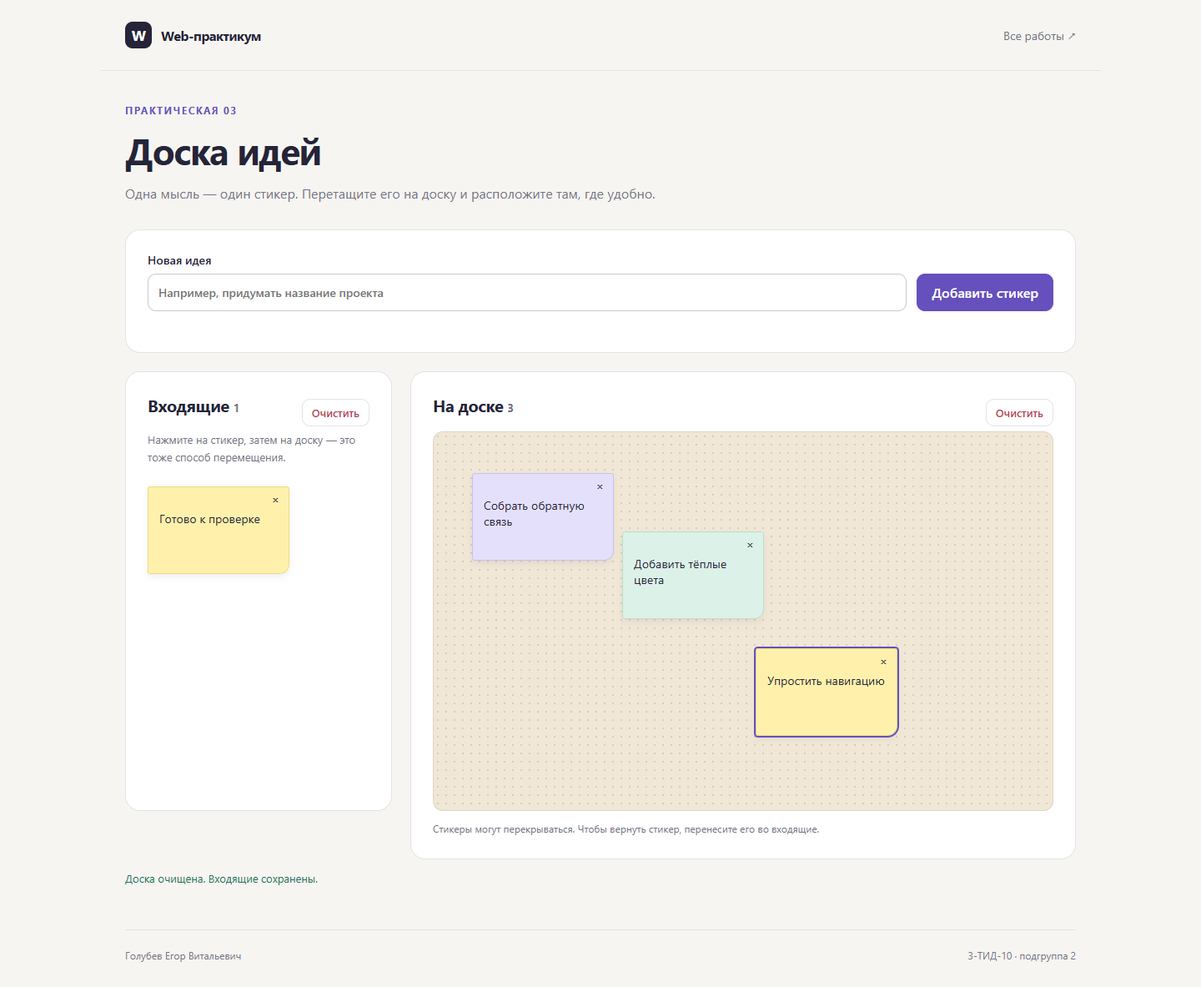
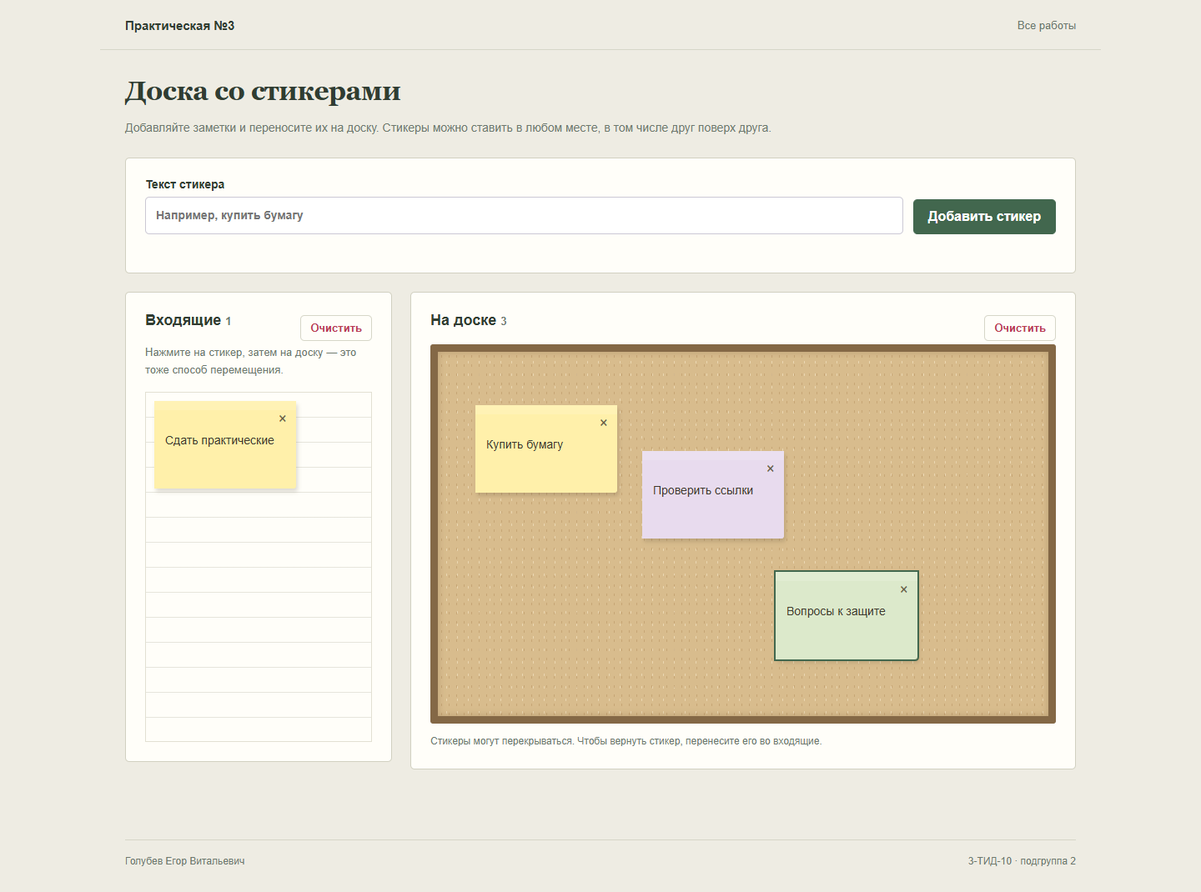
Поправил оформление практических

diff --git a/practice.css b/practice.css
@@ -1,0 +1,97 @@
+/* Оформление четырёх практических. У каждой своя тема, общая логика остаётся в app.js. */
+.practice{font-family:Arial,sans-serif;color:var(--ink);min-height:100vh}
+.practice .site-header{padding-top:22px;padding-bottom:20px}
+.practice .brand{font-size:15px;letter-spacing:0}
+.practice .back{font-size:13px}
+.practice main{padding-top:30px}
+.practice h1{font-size:32px;letter-spacing:-.6px;line-height:1.2}
+.practice h2{font-size:18px;letter-spacing:0}
+.practice .lead{font-size:14px;line-height:1.6;max-width:810px}
+.practice .page-heading{margin-bottom:24px}
+.practice .panel{border-radius:9px;padding:23px}
+.practice button,.practice input,.practice select,.practice textarea{border-radius:5px}
+.practice footer{padding-top:18px;font-size:12px}
+.practice .eyebrow{letter-spacing:1px}
+.practice :focus-visible{outline-color:var(--accent)}
+.practice .message{border-radius:0 5px 5px 0}
+/* Практическая 1 — поле с космическим маршрутом. */
+.pr1{--ink:#e4edf7;--muted:#a7b8cc;--bg:#101c2d;--paper:#16263a;--line:#334b65;--accent:#78b6dd;--soft:#223e58;background-color:var(--bg);background-image:radial-gradient(#afbedc66 .8px,transparent .8px),radial-gradient(#afbedc44 1px,transparent 1px);background-size:79px 83px,131px 139px;background-position:15px 0,60px 55px}
+.pr1 .site-header,.pr1 footer{border-color:#31445a}
+.pr1 .panel{background:#16263af5;border-color:#334b65}
+.pr1 button{background:#223b53;border-color:#42617e;color:#eaf2fb}
+.pr1 button.primary{background:#88bfdb;border-color:#88bfdb;color:#102638}
+.pr1 button.primary:hover{background:#acd7ee}
+.pr1 button:hover:not(:disabled){background:#304e69}
+.pr1 .token{background:#203a54;border-color:#4e6d88;color:#f5f7fc}
+.pr1 .token img{width:42px;height:42px;background:#07101b}
+.pr1 .token.selected{outline:2px solid #e7ca79}
+.pr1 .cell{background:#1b3048;border-color:#3c5671;border-radius:7px;min-height:134px}
+.pr1 .cell.special{background:#274463;border-color:#79a0c0}
+.pr1 .cell.goal{background:#254e44;border-color:#8bbd91}
+.pr1 .cell-number{color:#a8bed5}
+.pr1 .cell .token{background:#12283f}
+.pr1 .cell .token img{width:26px;height:26px}
+.pr1 .pill{background:#243f59;color:#c6e5f7;border-radius:5px}
+.pr1 .dice{background:#e6edf4;color:#20354b;border-radius:7px}
+.pr1 .game-grid{gap:10px;grid-template-columns:repeat(4,minmax(0,1fr))}
+.pr1 .cell strong{overflow-wrap:anywhere}
+.pr1 [data-cell="4"]{grid-row:2;grid-column:4}.pr1 [data-cell="5"]{grid-row:2;grid-column:3}.pr1 [data-cell="6"]{grid-row:2;grid-column:2}.pr1 [data-cell="7"]{grid-row:2;grid-column:1}
+.pr1 [data-cell="8"]{grid-row:3;grid-column:1}.pr1 [data-cell="9"]{grid-row:3;grid-column:2}.pr1 [data-cell="10"]{grid-row:3;grid-column:3}.pr1 [data-cell="11"]{grid-row:3;grid-column:4}
+.pr1 .cell-number:after{content:'→';float:right;font-size:16px;color:#7899b9}
+.pr1 [data-cell="3"] .cell-number:after,.pr1 [data-cell="7"] .cell-number:after{content:'↓'}
+.pr1 [data-cell="4"] .cell-number:after,.pr1 [data-cell="5"] .cell-number:after,.pr1 [data-cell="6"] .cell-number:after{content:'←'}
+.pr1 [data-cell="11"] .cell-number:after{content:'✓';color:#abdbb1}
+.pr1 .active-player{font-size:13px;color:#e7ca79;margin-top:14px;min-height:20px}
+.pr1 .game-controls{margin-top:12px}
+.pr1 #shelf:empty:before{content:'Все фишки на поле. Перетащите фишку сюда, чтобы вернуть её.';font-size:13px;line-height:1.6;color:#a7b8cc;padding-top:15px}
+.pr1 .message{background:#243d56;border-color:#8abbdc}
+/* Практическая 2 — компактная регистрационная форма. */
+.pr2{--ink:#302e2a;--muted:#756f64;--bg:#efebe2;--line:#d5cdbf;--accent:#845441;--soft:#f1e5db;background:#efebe2}
+.pr2 main{max-width:760px;padding-bottom:40px}
+.pr2 .page-heading{max-width:660px;margin:0 auto 23px}
+.pr2 h1{font-family:Georgia,serif;font-size:32px}
+.pr2 .layout.wide{display:block}
+.pr2 .panel{max-width:660px;margin:auto;background:#fffefa;border:1px solid #d0c7b8;box-shadow:0 4px 14px #4b3d2410;border-radius:5px}
+.pr2 .fields{gap:12px 18px}
+.pr2 input{background:white;border-color:#bfb8ab}
+.pr2 button.primary{background:#845441;border-color:#845441}
+.pr2 button.primary:hover{background:#6e4230}
+.pr2 .error{margin-top:4px;min-height:16px;font-size:12px}
+.pr2 input[aria-invalid=false]{border-color:#63836e}
+.pr2 input[aria-invalid=true]{border-color:#b45544}
+.pr2 #reset-registration{color:#756f64;border:0;padding-left:0;font-weight:400}
+.pr2 .form-footnote{font-size:12px;color:#756f64;margin:15px 0 0;padding-top:14px;border-top:1px solid #e6ded1}
+/* Практическая 3 — бумажные заметки на доске. */
+.pr3{--ink:#303d32;--muted:#6d786e;--bg:#eeece3;--line:#d6d6c8;--accent:#42674e;--soft:#e2eadf;background:#eeece3}
+.pr3 h1{font-family:Georgia,serif}
+.pr3 button.primary{background:#42674e;border-color:#42674e}
+.pr3 button.primary:hover{background:#304f39}
+.pr3 .panel{border-color:#d1d0c1;background:#fffef9;border-radius:5px}
+.pr3 .pinboard{background-color:#d8bc8d;background-image:radial-gradient(#a47a4555 1px,transparent 1px),radial-gradient(#fff5dc77 1px,transparent 1px);background-position:0 0,4px 5px;background-size:9px 11px,13px 15px;border:9px solid #846846;border-radius:3px;box-shadow:inset 0 0 9px #61492944}
+.pr3 .pinboard-caption{color:#775c3c;line-height:1.6}
+.pr3 .sticker-tray{background:repeating-linear-gradient(transparent 0,transparent 29px,#e6e5dc 29px,#e6e5dc 30px);padding:10px;min-height:420px;border:1px solid #e2e0d3}
+.pr3 .sticker-tray:empty:before{content:'Новые стикеры появятся здесь';font-size:13px;line-height:1.6;color:#7a8076;padding:10px}
+.pr3 .sticker{border-radius:0 0 3px 0;flex-shrink:0;box-shadow:2px 4px 5px #4a3b262e;border:0;border-top:11px solid #ffffff22;color:#3c382b}
+.pr3 .sticker button{color:#685d48;font-size:18px;line-height:1.2;padding:0 6px;top:0}
+.pr3 .pinboard .sticker{max-height:330px}
+/* Практическая 4 — пять вариантов оформления самой открытки. */
+.pr4{--ink:#3e3940;--muted:#837983;--bg:#f4efeb;--line:#ded3cd;--accent:#9c5a5b;--soft:#f2e1df;background:#f4efeb}
+.pr4 h1{font-family:Georgia,serif}
+.pr4 button.primary{background:#9c5a5b;border-color:#9c5a5b}
+.pr4 button.primary:hover{background:#854749}
+.pr4 .panel{background:#fffcf9;border-color:#dfd4ce;border-radius:5px}
+.pr4 .postcard{min-height:270px;border-radius:2px;box-shadow:2px 4px 8px #47392c1f;padding:42px 30px 30px;font-family:Georgia,serif;border:1px solid #d7cdbf}
+.pr4 .postcard p{font-size:25px;line-height:1.45;min-height:60px;margin:20px 0;z-index:1}
+.pr4 .postcard small{font-family:Arial,sans-serif;z-index:1}
+.pr4 .postcard:after{content:'';position:absolute;right:17px;top:16px;width:32px;height:39px;border:2px dotted currentColor;opacity:.35;transform:rotate(8deg);pointer-events:none}
+.pr4 .theme-linen{background:#fffcf3;color:#574735;background-image:repeating-linear-gradient(0deg,#a2947510 0,#a2947510 1px,transparent 1px,transparent 4px)}
+.pr4 .theme-night{background:#263345;color:#eef0e4;border-color:#687789;background-image:radial-gradient(#fff5caaa 1px,transparent 1.5px);background-size:63px 59px}
+.pr4 .theme-sunset{background:#f6dbcf;color:#7e4c44;border:7px double #d0a397}
+.pr4 .theme-garden{background:#e7ebdc;color:#3e5a42;border-color:#a9b79c;border-left:12px solid #8eaa83}
+.pr4 .theme-garden:before{border:12px double #91a08055;width:150px;height:150px;right:-60px;bottom:-60px}
+.pr4 .theme-winter{background:#e7f1f5;color:#385c6d;border-color:#adc4d0}
+.pr4 .theme-winter:before{content:'✧  ·  ✧';font-family:Georgia,serif;color:#78a1b7;font-size:32px;right:75px;top:14px}
+.pr4 .history-item .postcard{padding-bottom:48px;min-height:250px}
+.pr4 .history-item>button{border-radius:3px;background:#fffaf4cc}
+@media(max-width:850px){.pr1 .token-shelf{min-height:80px}.pr1 .game-controls{grid-template-columns:minmax(0,1fr);align-items:center}.pr3 .sticker-tray{min-height:160px}.pr4 .layout.wide{grid-template-columns:1fr}}
+@media(max-width:540px){.practice h1{font-size:27px}.practice .site-header{padding-top:18px;padding-bottom:16px}.practice main{padding-top:24px}.practice .panel{padding:17px}.pr1 .cell{padding:9px 5px;min-height:128px}.pr1 .cell strong{font-size:10px}.pr1 .game-grid{gap:6px}.pr2 .row{align-items:stretch}.pr2 .row>button{flex:1;font-size:13px}.pr3 .sticker-tray{padding:9px;min-height:155px;gap:9px}.pr3 .pinboard{border-width:6px}.pr3 .sticker{width:160px}.pr4 .postcard{padding:39px 21px 24px}.pr4 .postcard p{font-size:23px}}

diff --git a/pr2/validation.html b/pr2/validation.html
@@ -1,8 +1,8 @@
 <!DOCTYPE html>
 <html lang="ru"><head><meta charset="utf-8"><meta name="viewport" content="width=device-width, initial-scale=1">
-<meta name="description" content="Добро пожаловать в клуб — учебная работа по Web-программированию">
-<title>Добро пожаловать в клуб · Web-практикум</title><link rel="icon" href="../assets/favicon.svg"><link rel="stylesheet" href="../shared.css"></head>
-<body><header class="site-header"><a class="brand" href="../index.html"><span class="brand-icon">W</span> Web-практикум</a><a class="back" href="../index.html">Все работы ↗</a></header>
-<main><div class="page-heading"><p class="eyebrow">Практическая 02</p><h1>Добро пожаловать в клуб</h1><p class="lead">Регистрация в клубе настольных игр для участников от 18 лет. Подсказки помогут заполнить каждое поле.</p></div>
-<div class="layout wide"><section class="panel"><h2>Создать профиль</h2><form id="registration" novalidate><div class="fields"><label class="full">Фамилия, имя, отчество<input id="fullName" type="text" autocomplete="name" aria-describedby="fullName-help fullName-error"><small id="fullName-help">Латиница или кириллица, допускаются только буквы и пробелы.</small><div id="fullName-error" class="error" aria-live="polite"></div></label><label class="full">Логин<input id="login" type="text" autocomplete="username" aria-describedby="login-help login-error"><small id="login-help">От 15 символов: строчные и заглавные латинские буквы, минимум 3 цифры и 1 спецсимвол. Без пробелов.</small><div id="login-error" class="error" aria-live="polite"></div></label><label>Email<input id="email" type="text" inputmode="email" autocomplete="email" aria-describedby="email-error"><div id="email-error" class="error" aria-live="polite"></div></label><label>Возраст<input id="age" type="text" inputmode="numeric" autocomplete="off" aria-describedby="age-help age-error"><small id="age-help">От 18 до 120 лет.</small><div id="age-error" class="error" aria-live="polite"></div></label><label class="full">Пароль<input id="password" type="password" autocomplete="new-password" aria-describedby="password-help password-error"><small id="password-help">От 15 символов: строчные и заглавные кириллические буквы, минимум 3 цифры и 1 спецсимвол. Без латиницы и пробелов.</small><div id="password-error" class="error" aria-live="polite"></div></label></div><div class="row"><button type="submit" class="primary">Проверить регистрацию</button><button type="button" id="show-password" aria-pressed="false">Показать пароль</button></div><div id="result" class="status-line" role="status"></div></form></section><aside class="panel"><p class="eyebrow">Правила клуба</p><h2>Хорошая игра начинается<br>со знакомства</h2><p class="muted">Заполните форму — ошибки появятся рядом с полями, а верные значения останутся на месте.</p><p class="detail-text">Это учебная форма проверки. Она не создаёт аккаунт и не передаёт данные на сервер. Пароль не сохраняется.</p></aside></div></main>
+<meta name="description" content="Регистрация в клубе — учебная работа по Web-программированию">
+<title>Регистрация в клубе · Практическая 2</title><link rel="icon" href="../assets/favicon.svg"><link rel="stylesheet" href="../shared.css"><link rel="stylesheet" href="../practice.css"></head>
+<body class="practice pr2"><header class="site-header"><a class="brand" href="../index.html">Практическая №2</a><a class="back" href="../index.html">Все работы</a></header>
+<main><div class="page-heading"><h1>Регистрация в клубе</h1><p class="lead">Клуб настольных игр. Участие для игроков от 18 лет.</p></div>
+<div class="layout wide"><section class="panel"><h2>Данные участника</h2><form id="registration" novalidate><div class="fields"><label class="full">Фамилия, имя, отчество<input id="fullName" type="text" autocomplete="name" aria-describedby="fullName-help fullName-error"><small id="fullName-help">Латиница или кириллица, допускаются только буквы и пробелы.</small><div id="fullName-error" class="error" aria-live="polite"></div></label><label class="full">Логин<input id="login" type="text" autocomplete="username" aria-describedby="login-help login-error"><small id="login-help">От 15 символов: строчные и заглавные латинские буквы, минимум 3 цифры и 1 спецсимвол. Без пробелов.</small><div id="login-error" class="error" aria-live="polite"></div></label><label>Email<input id="email" type="text" inputmode="email" autocomplete="email" aria-describedby="email-error"><div id="email-error" class="error" aria-live="polite"></div></label><label>Возраст<input id="age" type="text" inputmode="numeric" autocomplete="off" aria-describedby="age-help age-error"><small id="age-help">От 18 до 120 лет.</small><div id="age-error" class="error" aria-live="polite"></div></label><label class="full">Пароль<input id="password" type="password" autocomplete="new-password" aria-describedby="password-help password-error"><small id="password-help">От 15 символов: строчные и заглавные кириллические буквы, минимум 3 цифры и 1 спецсимвол. Без латиницы и пробелов.</small><div id="password-error" class="error" aria-live="polite"></div></label></div><div class="row"><button type="submit" class="primary">Зарегистрироваться</button><button type="button" id="show-password" aria-pressed="false">Показать пароль</button></div><div id="result" class="status-line" role="status"></div><button id="reset-registration" class="quiet small" type="button">Очистить форму</button><p class="form-footnote">Учебная форма. Введённые данные и пароль не сохраняются.</p></form></section></div></main>
 <footer>Голубев Егор Витальевич <span>3-ТИД-10 · подгруппа 2</span></footer><script src="app.js"></script></body></html>

diff --git a/pr4/index.html b/pr4/index.html
@@ -1,8 +1,8 @@
 <!DOCTYPE html>
 <html lang="ru"><head><meta charset="utf-8"><meta name="viewport" content="width=device-width, initial-scale=1">
-<meta name="description" content="Тёплые слова — учебная работа по Web-программированию">
-<title>Тёплые слова · Web-практикум</title><link rel="icon" href="../assets/favicon.svg"><link rel="stylesheet" href="../shared.css"></head>
-<body><header class="site-header"><a class="brand" href="../index.html"><span class="brand-icon">W</span> Web-практикум</a><a class="back" href="../index.html">Все работы ↗</a></header>
-<main><div class="page-heading"><p class="eyebrow">Практическая 04</p><h1>Тёплые слова</h1><p class="lead">Выберите настроение, напишите несколько строк — и сохраните открытку в своей коллекции.</p></div>
-<div class="layout wide"><section class="panel"><h2>Новое послание</h2><form id="card-form" novalidate class="stack"><label>Текст открытки<textarea id="card-text" placeholder="Пусть сегодня случится что-нибудь хорошее" rows="3"></textarea></label><div class="fields"><label>От кого<input id="card-from" type="text" placeholder="Ваше имя"></label><label>Кому<input id="card-to" type="text" placeholder="Имя получателя"></label></div><label>Тема открытки<select id="card-theme"><option value="linen">Бумага и чернила</option><option value="night">Звёздная ночь</option><option value="sunset">Тёплый закат</option><option value="garden">Летний сад</option><option value="winter">Зимнее утро</option></select></label><button id="send" class="primary" type="submit" disabled>Отправить в коллекцию</button><div id="card-status" class="status-line" role="status"></div></form></section><section class="panel"><h2 class="preview-title">Предпросмотр</h2><div id="preview" class="postcard theme-linen"><small id="preview-to">Для вас</small><p id="preview-text">Пара тёплых слов<br>сделает день лучше.</p><small id="preview-from">С добрыми пожеланиями</small></div><p class="board-note">Тема меняет оформление открытки. Страница остаётся прежней.</p></section></div><section style="margin-top:34px"><div class="between"><h2>Ваша коллекция <span id="history-count" class="count">0</span></h2><button id="clear-history" class="quiet small danger">Удалить все</button></div><p class="hint">Открытки сохраняются в этом браузере и остаются после обновления страницы.</p><div id="history" class="postcard-history"></div><div id="history-empty" class="empty">Первая открытка появится здесь после отправки.</div></section></main>
+<meta name="description" content="Открытки — учебная работа по Web-программированию">
+<title>Открытки · Практическая 4</title><link rel="icon" href="../assets/favicon.svg"><link rel="stylesheet" href="../shared.css"><link rel="stylesheet" href="../practice.css"></head>
+<body class="practice pr4"><header class="site-header"><a class="brand" href="../index.html">Практическая №4</a><a class="back" href="../index.html">Все работы</a></header>
+<main><div class="page-heading"><h1>Открытки</h1><p class="lead">Напишите поздравление, укажите отправителя и получателя. Выберите оформление и добавьте открытку в историю.</p></div>
+<div class="layout wide"><section class="panel"><h2>Новая открытка</h2><form id="card-form" novalidate class="stack"><label>Текст открытки<textarea id="card-text" placeholder="Ваше поздравление" rows="3"></textarea></label><div class="fields"><label>От кого<input id="card-from" type="text" placeholder="Ваше имя"></label><label>Кому<input id="card-to" type="text" placeholder="Имя получателя"></label></div><label>Тема открытки<select id="card-theme"><option value="linen">Бумажная</option><option value="night">Звёздная ночь</option><option value="sunset">Персиковая</option><option value="garden">Ботаническая</option><option value="winter">Зимнее утро</option></select></label><button id="send" class="primary" type="submit" disabled>Отправить</button><div id="card-status" class="status-line" role="status"></div></form></section><section class="panel"><h2 class="preview-title">Предпросмотр</h2><div id="preview" class="postcard theme-linen"><small id="preview-to">Для вас</small><p id="preview-text">Текст поздравления</p><small id="preview-from">Отправитель</small></div><p class="board-note">Выбранное оформление сохранится вместе с открыткой.</p></section></div><section style="margin-top:34px"><div class="between"><h2>История открыток <span id="history-count" class="count">0</span></h2><button id="clear-history" class="quiet small danger">Очистить историю</button></div><p class="hint">Открытки сохраняются в этом браузере и остаются после обновления страницы.</p><div id="history" class="postcard-history"></div><div id="history-empty" class="empty">Первая открытка появится здесь после отправки.</div></section></main>
 <footer>Голубев Егор Витальевич <span>3-ТИД-10 · подгруппа 2</span></footer><script src="app.js"></script></body></html>

diff --git a/index.html b/index.html
@@ -1,1 +1,1 @@
-<!DOCTYPE html><html lang="ru"><head><meta charset="utf-8"><meta name="viewport" content="width=device-width, initial-scale=1"><title>Web-практикум · Голубев Егор</title><link rel="icon" href="assets/favicon.svg"><link rel="stylesheet" href="shared.css"></head><body><header class="site-header"><a class="brand" href="index.html"><span class="brand-icon">W</span> Web-практикум</a><span class="count">5 семестр / 2026</span></header><main><div class="page-heading"><p class="eyebrow">Голубев Егор Витальевич · 3-ТИД-10</p><h1>От первого события<br>до своего приложения</h1><p class="lead">Четыре практические работы и индивидуальный проект по фронтенду. Откройте любую работу, чтобы проверить её в браузере.</p></div><div class="cards"><a class="work-card" href="pr1/index.html"><p class="eyebrow">Практическая 01</p><h2>Космический маршрут</h2><p>Настольная игра с перетаскиванием фишек, особыми клетками и броском кубика.</p><span class="card-link">Начать путешествие ↗</span></a><a class="work-card" href="pr2/validation.html"><p class="eyebrow">Практическая 02</p><h2>Форма регистрации</h2><p>Проверка ФИО, логина, почты, возраста и пароля с помощью регулярных выражений.</p><span class="card-link">Открыть форму ↗</span></a><a class="work-card" href="pr3/index.html"><p class="eyebrow">Практическая 03</p><h2>Доска идей</h2><p>Создавайте стикеры, размещайте их в любой точке доски и убирайте лишнее.</p><span class="card-link">Собрать идеи ↗</span></a><a class="work-card" href="pr4/index.html"><p class="eyebrow">Практическая 04</p><h2>Тёплые слова</h2><p>Конструктор открыток с пятью темами и историей, которая сохраняется в браузере.</p><span class="card-link">Создать открытку ↗</span></a><a class="work-card featured" href="final/index.html"><p class="eyebrow">Индивидуальный проект · Вариант 03</p><h2>Между строк</h2><p>Трекер чтения книг: своя полка, заметки, цитаты и прогресс прочитанных страниц.</p><span class="card-link">Открыть приложение ↗</span></a></div></main><footer>Голубев Егор Витальевич<span>Web-программирование · подгруппа 2</span></footer></body></html>
+<!DOCTYPE html><html lang="ru"><head><meta charset="utf-8"><meta name="viewport" content="width=device-width, initial-scale=1"><title>Web-практикум · Голубев Егор</title><link rel="icon" href="assets/favicon.svg"><link rel="stylesheet" href="shared.css"></head><body><header class="site-header"><a class="brand" href="index.html"><span class="brand-icon">W</span> Web-практикум</a><span class="count">5 семестр / 2026</span></header><main><div class="page-heading"><p class="eyebrow">Голубев Егор Витальевич · 3-ТИД-10</p><h1>Практические работы</h1><p class="lead">Работы по Web-программированию. Голубев Егор Витальевич, группа 3-ТИД-10.</p></div><div class="cards"><a class="work-card" href="pr1/index.html"><p class="eyebrow">Практическая 01</p><h2>Космическая бродилка</h2><p>Настольная игра с перетаскиванием фишек, особыми клетками и броском кубика.</p><span class="card-link">Открыть работу →</span></a><a class="work-card" href="pr2/validation.html"><p class="eyebrow">Практическая 02</p><h2>Форма регистрации</h2><p>Проверка ФИО, логина, почты, возраста и пароля с помощью регулярных выражений.</p><span class="card-link">Открыть работу →</span></a><a class="work-card" href="pr3/index.html"><p class="eyebrow">Практическая 03</p><h2>Доска со стикерами</h2><p>Создавайте стикеры, размещайте их в любой точке доски и убирайте лишнее.</p><span class="card-link">Открыть работу →</span></a><a class="work-card" href="pr4/index.html"><p class="eyebrow">Практическая 04</p><h2>Открытки</h2><p>Конструктор открыток с пятью темами и историей, которая сохраняется в браузере.</p><span class="card-link">Открыть работу →</span></a><a class="work-card featured" href="final/index.html"><p class="eyebrow">Индивидуальный проект · Вариант 03</p><h2>Между строк</h2><p>Трекер чтения книг: своя полка, заметки, цитаты и прогресс прочитанных страниц.</p><span class="card-link">Открыть приложение ↗</span></a></div></main><footer>Голубев Егор Витальевич<span>Web-программирование · подгруппа 2</span></footer></body></html>

diff --git a/pr3/index.html b/pr3/index.html
@@ -1,8 +1,8 @@
 <!DOCTYPE html>
 <html lang="ru"><head><meta charset="utf-8"><meta name="viewport" content="width=device-width, initial-scale=1">
-<meta name="description" content="Доска идей — учебная работа по Web-программированию">
-<title>Доска идей · Web-практикум</title><link rel="icon" href="../assets/favicon.svg"><link rel="stylesheet" href="../shared.css"></head>
-<body><header class="site-header"><a class="brand" href="../index.html"><span class="brand-icon">W</span> Web-практикум</a><a class="back" href="../index.html">Все работы ↗</a></header>
-<main><div class="page-heading"><p class="eyebrow">Практическая 03</p><h1>Доска идей</h1><p class="lead">Одна мысль — один стикер. Перетащите его на доску и расположите там, где удобно.</p></div>
-<section class="panel" style="margin-bottom:22px"><form id="sticker-form" class="row" novalidate><label style="flex:1">Новая идея<input id="sticker-text" type="text" placeholder="Например, придумать название проекта" aria-describedby="input-error"></label><button class="primary" type="submit" style="align-self:end">Добавить стикер</button></form><div id="input-error" class="error" role="status"></div></section><div class="layout"><section class="panel"><div class="between"><h2>Входящие <span id="tray-count" class="count">0</span></h2><button id="clear-tray" class="quiet small danger">Очистить</button></div><p class="hint">Нажмите на стикер, затем на доску — это тоже способ перемещения.</p><div id="tray" class="sticker-tray" aria-label="Поле со стикерами"></div></section><section class="panel"><div class="between"><h2>На доске <span id="board-count" class="count">0</span></h2><button id="clear-board" class="quiet small danger">Очистить</button></div><div id="pinboard" class="pinboard" aria-label="Доска со свободным расположением стикеров"><div id="board-placeholder" class="pinboard-caption">Здесь найдётся место<br>для каждой идеи</div></div><p class="board-note">Стикеры могут перекрываться. Чтобы вернуть стикер, перенесите его во входящие.</p></section></div><div id="notice" class="status-line" role="status"></div></main>
+<meta name="description" content="Доска со стикерами — учебная работа по Web-программированию">
+<title>Доска со стикерами · Практическая 3</title><link rel="icon" href="../assets/favicon.svg"><link rel="stylesheet" href="../shared.css"><link rel="stylesheet" href="../practice.css"></head>
+<body class="practice pr3"><header class="site-header"><a class="brand" href="../index.html">Практическая №3</a><a class="back" href="../index.html">Все работы</a></header>
+<main><div class="page-heading"><h1>Доска со стикерами</h1><p class="lead">Добавляйте заметки и переносите их на доску. Стикеры можно ставить в любом месте, в том числе друг поверх друга.</p></div>
+<section class="panel" style="margin-bottom:22px"><form id="sticker-form" class="row" novalidate><label style="flex:1">Текст стикера<input id="sticker-text" type="text" placeholder="Например, купить бумагу" aria-describedby="input-error"></label><button class="primary" type="submit" style="align-self:end">Добавить стикер</button></form><div id="input-error" class="error" role="status"></div></section><div class="layout"><section class="panel"><div class="between"><h2>Входящие <span id="tray-count" class="count">0</span></h2><button id="clear-tray" class="quiet small danger">Очистить</button></div><p class="hint">Нажмите на стикер, затем на доску — это тоже способ перемещения.</p><div id="tray" class="sticker-tray" aria-label="Поле со стикерами"></div></section><section class="panel"><div class="between"><h2>На доске <span id="board-count" class="count">0</span></h2><button id="clear-board" class="quiet small danger">Очистить</button></div><div id="pinboard" class="pinboard" aria-label="Доска со свободным расположением стикеров"><div id="board-placeholder" class="pinboard-caption">Перетащите сюда стикер</div></div><p class="board-note">Стикеры могут перекрываться. Чтобы вернуть стикер, перенесите его во входящие.</p></section></div><div id="notice" class="status-line" role="status"></div></main>
 <footer>Голубев Егор Витальевич <span>3-ТИД-10 · подгруппа 2</span></footer><script src="app.js"></script></body></html>

diff --git a/pr3/app.js b/pr3/app.js
@@ -26,12 +26,19 @@ function removeSticker(id) {
 function selectSticker(id) {
   selectedId = id;
   stickers.forEach(s => {
-    s.element.style.outline = s.id === id ? '2px solid #6550bd' : '';
+    s.element.style.outline = s.id === id ? '2px solid #42674e' : '';
     s.element.setAttribute('aria-pressed', String(s.id === id));
   });
 }
 
 // Координаты считаются относительно доски, с учётом точки захвата стикера.
+function fitSticker(sticker, x, y) {
+  sticker.x = Math.max(0, Math.min(x, board.clientWidth - sticker.element.offsetWidth));
+  sticker.y = Math.max(0, Math.min(y, board.clientHeight - sticker.element.offsetHeight));
+  sticker.element.style.left = `${sticker.x}px`;
+  sticker.element.style.top = `${sticker.y}px`;
+}
+
 function placeSticker(id, zone, x = 10, y = 10) {
   const sticker = stickers.find(s => s.id === id);
   if (!sticker) return;
@@ -39,10 +46,7 @@ function placeSticker(id, zone, x = 10, y = 10) {
   const target = zone === 'board' ? board : tray;
   target.append(sticker.element);
   if (zone === 'board') {
-    sticker.x = Math.max(0, Math.min(x, board.clientWidth - sticker.element.offsetWidth));
-    sticker.y = Math.max(0, Math.min(y, board.clientHeight - sticker.element.offsetHeight));
-    sticker.element.style.left = `${sticker.x}px`;
-    sticker.element.style.top = `${sticker.y}px`;
+    fitSticker(sticker, x, y);
     sticker.element.style.zIndex = ++topLayer;
   } else { sticker.element.style.left = ''; sticker.element.style.top = ''; sticker.element.style.zIndex = ''; }
   selectSticker(id); updateCounts();
@@ -52,6 +56,9 @@ function addSticker(text) {
   const id = String(nextId++);
   const element = document.createElement('article');
   element.className = 'sticker'; element.draggable = true; element.tabIndex = 0;
+  // Цвет относится к самому стикеру и сохраняется при переносе между полями.
+  const colors = ['#fff0aa', '#e8dbee', '#dce9cb'];
+  element.style.backgroundColor = colors[(Number(id) - 1) % colors.length];
   element.dataset.id = id; element.setAttribute('role', 'button'); element.setAttribute('aria-label', `Выбрать стикер: ${text}`);
   const content = document.createElement('span'); content.textContent = text;
   const remove = document.createElement('button'); remove.type = 'button'; remove.textContent = '×'; remove.setAttribute('aria-label', `Удалить стикер: ${text}`);
@@ -84,12 +91,15 @@ document.getElementById('sticker-form').addEventListener('submit', event => {
   zone.addEventListener('drop', event => {
     event.preventDefault(); zone.classList.remove('drag-over');
     const rect = board.getBoundingClientRect();
-    placeSticker(event.dataTransfer.getData('text/plain'), zone === board ? 'board' : 'tray', event.clientX - rect.left - dragOffset.x, event.clientY - rect.top - dragOffset.y);
+    placeSticker(event.dataTransfer.getData('text/plain'), zone === board ? 'board' : 'tray', event.clientX - rect.left - board.clientLeft - dragOffset.x, event.clientY - rect.top - board.clientTop - dragOffset.y);
   });
 });
 board.addEventListener('click', event => {
   if (event.target !== board) return;
-  const rect = board.getBoundingClientRect(); placeSticker(selectedId, 'board', event.clientX - rect.left - 85, event.clientY - rect.top - 35);
+  const sticker = stickers.find(s => s.id === selectedId);
+  if (!sticker) return;
+  const rect = board.getBoundingClientRect();
+  placeSticker(selectedId, 'board', event.clientX - rect.left - board.clientLeft - sticker.element.offsetWidth / 2, event.clientY - rect.top - board.clientTop - 35);
 });
 tray.addEventListener('click', event => { if (event.target === tray) placeSticker(selectedId, 'tray'); });
 function clearZone(zone) {
@@ -98,6 +108,14 @@ function clearZone(zone) {
 }
 document.getElementById('clear-tray').addEventListener('click', () => clearZone('tray'));
 document.getElementById('clear-board').addEventListener('click', () => clearZone('board'));
-window.addEventListener('resize', () => stickers.filter(s => s.zone === 'board').forEach(s => placeSticker(s.id, 'board', s.x, s.y)));
+// Ждём окончания изменения окна, чтобы промежуточная ширина не сдвинула все заметки.
+let resizeTimer;
+window.addEventListener('resize', () => {
+  clearTimeout(resizeTimer);
+  resizeTimer = setTimeout(() => {
+    if (board.clientWidth < 170) return;
+    stickers.filter(s => s.zone === 'board').forEach(s => fitSticker(s, s.x, s.y));
+  }, 120);
+});
 document.addEventListener('dragend', () => document.querySelectorAll('.drag-over').forEach(el => el.classList.remove('drag-over')));
 updateCounts();

diff --git a/pr1/index.html b/pr1/index.html
@@ -1,8 +1,8 @@
 <!DOCTYPE html>
 <html lang="ru"><head><meta charset="utf-8"><meta name="viewport" content="width=device-width, initial-scale=1">
-<meta name="description" content="Космический маршрут — учебная работа по Web-программированию">
-<title>Космический маршрут · Web-практикум</title><link rel="icon" href="../assets/favicon.svg"><link rel="stylesheet" href="../shared.css"></head>
-<body><header class="site-header"><a class="brand" href="../index.html"><span class="brand-icon">W</span> Web-практикум</a><a class="back" href="../index.html">Все работы ↗</a></header>
-<main><div class="page-heading"><p class="eyebrow">Практическая 01</p><h1>Космический маршрут</h1><p class="lead">Выберите планету и отправьте её в путешествие. Перетаскивайте фишки на клетки или нажимайте на фишку, а затем на клетку.</p></div>
-<div class="layout"><aside class="panel"><h2>Ваш экипаж</h2><p class="hint">Три фишки — три путешественника. Начните с любой.</p><div id="shelf" class="token-shelf" aria-label="Фишки вне поля"></div><div class="game-controls stack"><div class="row"><div id="dice" class="dice" aria-live="polite">—</div><button id="roll" class="primary">Бросить кубик</button></div><p class="hint no-margin">Кубик перемещает выбранную фишку на 1–6 клеток. На особых клетках появится событие.</p><button id="reset" class="quiet">Начать заново</button></div></aside><section class="panel"><div class="between"><h2>От старта до новой орбиты</h2><span class="pill">12 клеток</span></div><div id="board" class="game-grid" aria-label="Игровое поле"></div><p class="board-note">Порядок маршрута — по номерам. Фишки можно переносить и обратно в экипаж.</p></section></div><div id="event" class="message" style="margin-top:22px" role="status">Выберите фишку: Земля, Луна или Сатурн.</div></main>
+<meta name="description" content="Космическая бродилка — учебная работа по Web-программированию">
+<title>Космическая бродилка · Практическая 1</title><link rel="icon" href="../assets/favicon.svg"><link rel="stylesheet" href="../shared.css"><link rel="stylesheet" href="../practice.css"></head>
+<body class="practice pr1"><header class="site-header"><a class="brand" href="../index.html">Практическая №1</a><a class="back" href="../index.html">Все работы</a></header>
+<main><div class="page-heading"><h1>Космическая бродилка</h1><p class="lead">Перетащите фишку на поле. Можно также выбрать её нажатием, а затем нажать на нужную клетку.</p></div>
+<div class="layout"><aside class="panel"><h2>Фишки</h2><p class="hint">Выберите, чем будете играть.</p><div id="shelf" class="token-shelf" aria-label="Вернуть выбранную фишку вне поля" role="button" tabindex="0"></div><div id="active-player" class="active-player" aria-live="polite">Фишка не выбрана</div><div class="game-controls stack"><div class="row"><div id="dice" class="dice" aria-live="polite">—</div><button id="roll" class="primary">Бросить кубик</button></div><p class="hint no-margin">Кубик перемещает выбранную фишку на 1–6 клеток. На особых клетках появится событие.</p><button id="reset" class="quiet">Начать заново</button></div></aside><section class="panel"><div class="between"><h2>Игровое поле</h2><span class="pill">12 клеток</span></div><div id="board" class="game-grid" aria-label="Игровое поле"></div><p class="board-note">Порядок маршрута — по номерам. Фишки можно переносить и обратно в экипаж.</p></section></div><div id="event" class="message" style="margin-top:22px" role="status">Выберите фишку: Земля, Луна или Сатурн.</div></main>
 <footer>Голубев Егор Витальевич <span>3-ТИД-10 · подгруппа 2</span></footer><script src="app.js"></script></body></html>

diff --git a/pr1/app.js b/pr1/app.js
@@ -7,10 +7,10 @@ const players = [
   { id: 'saturn', name: 'Сатурн', image: 'saturn.jpg', cell: null, skip: false }
 ];
 const spaces = [
-  ['Космодром', 'start'], ['Первая орбита', ''], ['Попутный ветер · +2', 'forward'],
+  ['Космодром · старт', 'start'], ['Первая орбита', ''], ['Попутный ветер · +2', 'forward'],
   ['Метеорный поток', ''], ['Ремонт · пропуск хода', 'skip'], ['Тихий космос', ''],
   ['Солнечный ветер · −2', 'back'], ['Лунная станция', ''], ['Звёздный свет', ''],
-  ['Дальняя орбита', ''], ['Последний рывок', ''], ['Новая галактика', 'goal']
+  ['Дальняя орбита', ''], ['Последний рывок', ''], ['Новая галактика · финиш', 'goal']
 ];
 let selected = null;
 const board = document.getElementById('board');
@@ -19,6 +19,8 @@ const message = document.getElementById('event');
 
 function selectPlayer(id) {
   selected = id;
+  const player = players.find(p => p.id === id);
+  document.getElementById('active-player').textContent = player ? `Выбрана фишка: ${player.name}` : 'Фишка не выбрана';
   document.querySelectorAll('.token').forEach(token => {
     token.classList.toggle('selected', token.dataset.id === id);
     token.setAttribute('aria-pressed', String(token.dataset.id === id));
@@ -116,6 +118,11 @@ function move(id, index) {
 
 enableDrop(shelf, null);
 shelf.addEventListener('click', event => { if (event.target === shelf && selected) move(selected, null); });
+shelf.addEventListener('keydown', event => {
+  if (event.target === shelf && (event.key === 'Enter' || event.key === ' ')) {
+    event.preventDefault(); move(selected, null);
+  }
+});
 document.getElementById('roll').addEventListener('click', () => {
   const player = players.find(p => p.id === selected);
   if (!player) { message.textContent = 'Перед броском выберите фишку.'; return; }

diff --git a/pr4/app.js b/pr4/app.js
@@ -24,8 +24,8 @@ function persist(nextCards) {
 
 function preview() {
   document.getElementById('preview').className = `postcard theme-${themeInput.value}`;
-  document.getElementById('preview-text').textContent = textInput.value.trim() || 'Пара тёплых слов сделает день лучше.';
-  document.getElementById('preview-from').textContent = fromInput.value.trim() ? `От ${fromInput.value.trim()}` : 'С добрыми пожеланиями';
+  document.getElementById('preview-text').textContent = textInput.value.trim() || 'Текст поздравления';
+  document.getElementById('preview-from').textContent = fromInput.value.trim() ? `От ${fromInput.value.trim()}` : 'Отправитель';
   document.getElementById('preview-to').textContent = toInput.value.trim() ? `Для ${toInput.value.trim()}` : 'Для вас';
   document.getElementById('send').disabled = ![textInput, fromInput, toInput].every(input => input.value.trim());
 }
@@ -57,7 +57,10 @@ document.getElementById('card-form').addEventListener('submit', event => {
   renderHistory(); status.textContent = 'Открытка сохранена в коллекции.';
   textInput.value = ''; fromInput.value = ''; toInput.value = ''; preview();
 });
-document.getElementById('clear-history').addEventListener('click', () => { if (persist([])) { renderHistory(); status.textContent = 'Коллекция очищена.'; } });
+document.getElementById('clear-history').addEventListener('click', () => {
+  if (!confirm('Удалить все сохранённые открытки?')) return;
+  if (persist([])) { renderHistory(); status.textContent = 'История очищена.'; }
+});
 // Событие storage обновляет коллекцию в другой вкладке того же сайта.
 window.addEventListener('storage', event => { if (event.key === STORAGE_KEY || event.key === null) { cards = readCards(); renderHistory(); } });
 cards = readCards(); preview(); renderHistory();

diff --git a/pr2/app.js b/pr2/app.js
@@ -31,7 +31,19 @@ form.addEventListener('submit', event => {
   const results = Object.keys(rules).map(name => ({ name, valid: validateField(name) }));
   const invalid = results.find(result => !result.valid);
   if (invalid) { document.getElementById(invalid.name).focus(); document.getElementById('result').textContent = ''; return; }
-  document.getElementById('result').textContent = 'Все поля прошли проверку. Данные никуда не отправлены.';
+  document.getElementById('result').textContent = 'Все поля прошли проверку.';
+});
+document.getElementById('reset-registration').addEventListener('click', () => {
+  form.reset();
+  Object.keys(rules).forEach(name => {
+    document.getElementById(name).removeAttribute('aria-invalid');
+    document.getElementById(`${name}-error`).textContent = '';
+  });
+  document.getElementById('password').type = 'password';
+  document.getElementById('show-password').textContent = 'Показать пароль';
+  document.getElementById('show-password').setAttribute('aria-pressed', 'false');
+  document.getElementById('result').textContent = '';
+  document.getElementById('fullName').focus();
 });
 document.getElementById('show-password').addEventListener('click', event => {
   const password = document.getElementById('password');

diff --git a/README.md b/README.md
@@ -4,6 +4,15 @@
 
 Репозиторий: https://github.com/GEVOPSP/web-programming-sem5
 
+## Ссылки для сдачи
+
+- Практическая 1: https://gevopsp.github.io/web-programming-sem5/pr1/
+- Практическая 2: https://gevopsp.github.io/web-programming-sem5/pr2/validation.html
+- Практическая 3: https://gevopsp.github.io/web-programming-sem5/pr3/
+- Практическая 4: https://gevopsp.github.io/web-programming-sem5/pr4/
+
+Готовый текст с ФИО и четырьмя ссылками лежит в `Сообщение_для_сдачи.txt`. Все четыре страницы опубликованы через GitHub Pages; вход для просмотра не нужен. Проект варианта 3 находится по адресу https://gevopsp.github.io/web-programming-sem5/final/ .
+
 Четыре практические работы и индивидуальный фронтенд-проект по варианту 3 «Трекер чтения книг». Код на обычных HTML, CSS и JavaScript. Установка npm-пакетов и сборка не нужны.
 
 ## Запуск
@@ -26,7 +35,7 @@ python -m http.server 8000
 | Практическая 4 | `pr4/index.html` | 3 поля, проверка пустых значений, 5 тем открытки, история в localStorage и синхронизация вкладок |
 | Индивидуальный проект | `final/index.html` | Вариант 3, библиотека книг, заметки, цитаты, прогресс, фильтры, сортировки и статистика |
 
-В папках работ лежат `app.js` с комментариями. Общие стили находятся в `shared.css`; изображения фишек — в `assets/`. Сохраняйте структуру папок при переносе. Скриншоты демонстрируют тестовые записи; при первом запуске библиотека и история открыток пусты.
+В папках работ лежат `app.js` с комментариями. Общие стили находятся в `shared.css`, отдельное оформление четырёх практических — в `practice.css`; изображения фишек — в `assets/`. Сохраняйте структуру папок при переносе. Скриншоты демонстрируют тестовые записи; при первом запуске библиотека и история открыток пусты.
 
 ## Практическая 2
 
@@ -52,6 +61,6 @@ python -m http.server 8000
 
 ## Проверка
 
-Проверено 26.10.2026 в Microsoft Edge: 98 автоматических проверок по пяти работам, ошибок JavaScript не обнаружено. Проверены основные сценарии, границы валидации, хранение и восстановление данных, две вкладки и ширина экрана 390 пикселей. Проверка не заменяет приём преподавателем. Подробности — в `Проверка.md`, пояснения для защиты — в `Защита.md`.
+Проверено 26.10.2026 в Microsoft Edge: 98 основных и 32 дополнительные автоматические проверки, ошибок JavaScript не обнаружено. Проверены основные сценарии, границы валидации, хранение и восстановление данных, две вкладки, управление клавиатурой, сброс формы, очистка истории и ширина экрана 320, 390 и 768 пикселей. Проверка не заменяет приём преподавателем. Подробности — в `Проверка.md`, пояснения для защиты — в `Защита.md`.
 
 Источники изображений и условия их использования указаны в `assets/CREDITS.md`.

diff --git a/Защита.md b/Защита.md
@@ -15,6 +15,7 @@
 - Особая клетка может перенести на две позиции, сообщить о пропуске следующего броска или завершить путешествие. Цепочки эффектов намеренно не запускаются.
 - Кубик — `Math.floor(Math.random() * 6) + 1`. Это даёт целое число от 1 до 6.
 - Для клавиатуры и телефона предусмотрен способ «выбрать фишку, затем клетку».
+- Клетки расположены змейкой: после первой строки движение идёт в обратную сторону. Порядок задаётся CSS, логический номер остаётся в массиве.
 
 Показать: перенос Земли на старт, на третью клетку с бонусом +2, на пятую с пропуском, возврат в экипаж и сброс.
 
@@ -30,6 +31,7 @@
 - У логина и пароля длина от 15 знаков. В пароле латиница запрещена.
 - ФИО допускает буквы латиницы/кириллицы и пробелы, но отвергает цифры и знаки.
 - Возраст 18–120 выбран для тематики взрослого клуба настольных игр; это правило моей страницы, не универсальное требование преподавателя.
+- «Очистить форму» сбрасывает значения и ошибки и возвращает пароль в скрытый режим.
 
 Показать: неверный логин без заглавной буквы, логин с двумя цифрами, пароль с латиницей, затем корректный ввод из README. Не использовать свой настоящий пароль.
 
@@ -42,6 +44,7 @@
 - Координаты ограничиваются размерами доски, чтобы стикер оставался внутри неё.
 - `zIndex` поднимает перемещённый стикер поверх остальных.
 - Кнопка удаления вызывает `removeSticker` только для своего ID.
+- Цвет задаётся при создании стикера и не меняется после его переноса. Перерасчёт положения при изменении окна запускается с небольшой задержкой, когда ширина стабилизировалась.
 - `clearZone` очищает одну зону; вторая сохраняется.
 - Обработчики кнопок используют `stopPropagation`, чтобы удаление не воспринималось как выбор или перенос стикера.
 
@@ -57,6 +60,7 @@
 - При открытии страницы `readCards` загружает историю, а `renderHistory` строит открытки.
 - `storage` обновляет историю в другой вкладке того же адреса.
 - Удаляется только ключ этой работы; `localStorage.clear()` не вызывается.
+- Перед удалением всей истории появляется подтверждение; отмена сохраняет открытки.
 - «Отправить» означает добавить открытку в локальную коллекцию. Отправки писем или сообщений нет.
 
 Показать: пустые поля, пять тем, сохранение двух открыток, обновление страницы и вторую вкладку.
